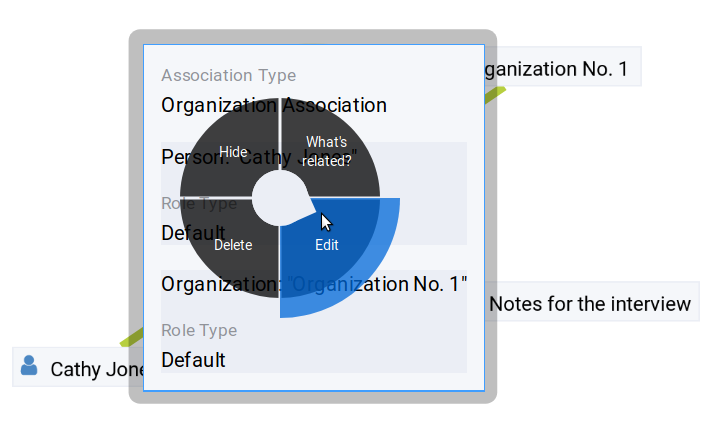
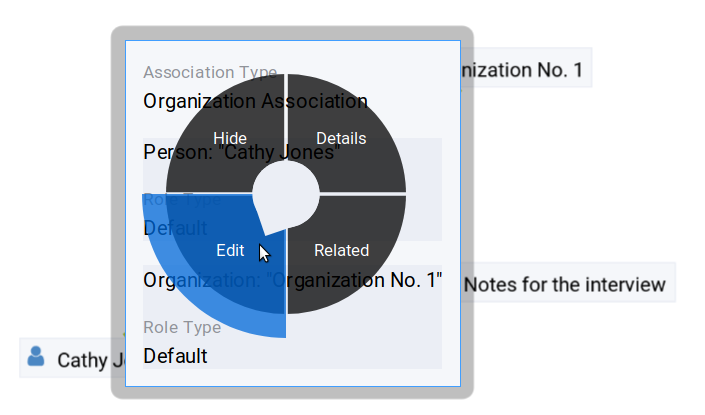
Updated text and screenshots of tutorial

Changed region(s): [[0.0312, 0.0578, 0.9674, 0.9831]]

diff --git a/docs/tutorial.rst b/docs/tutorial.rst
@@ -67,7 +67,7 @@ DMX interpreted both as given name.
 Let's correct this:
 Long-press the rectangle and select "edit" from the :ref:`context menu <user-the-context-menu>`.
 
-.. image:: _static/context-menu-edit.jpg
+.. image:: _static/context-menu-edit.png
 
 On the right-hand side the :ref:`detail panel <user-the-detail-panel>` opens.
 It contains many fields you might need for all persons.
@@ -147,8 +147,8 @@ Click "Save".
 
 .. image:: _static/organization-association.png
 
-This is a machine-readable association:
-You can open the context menu of the organization with a right-click and select "What's related".
+This is a meaningful association:
+You can open the context menu of the organization with a right-click and select "Related".
 If you have entered more than one person, you can scroll down in the detail panel to see all persons and their respective roles in the organization.
 
 .. image:: _static/organizational-roles.png
